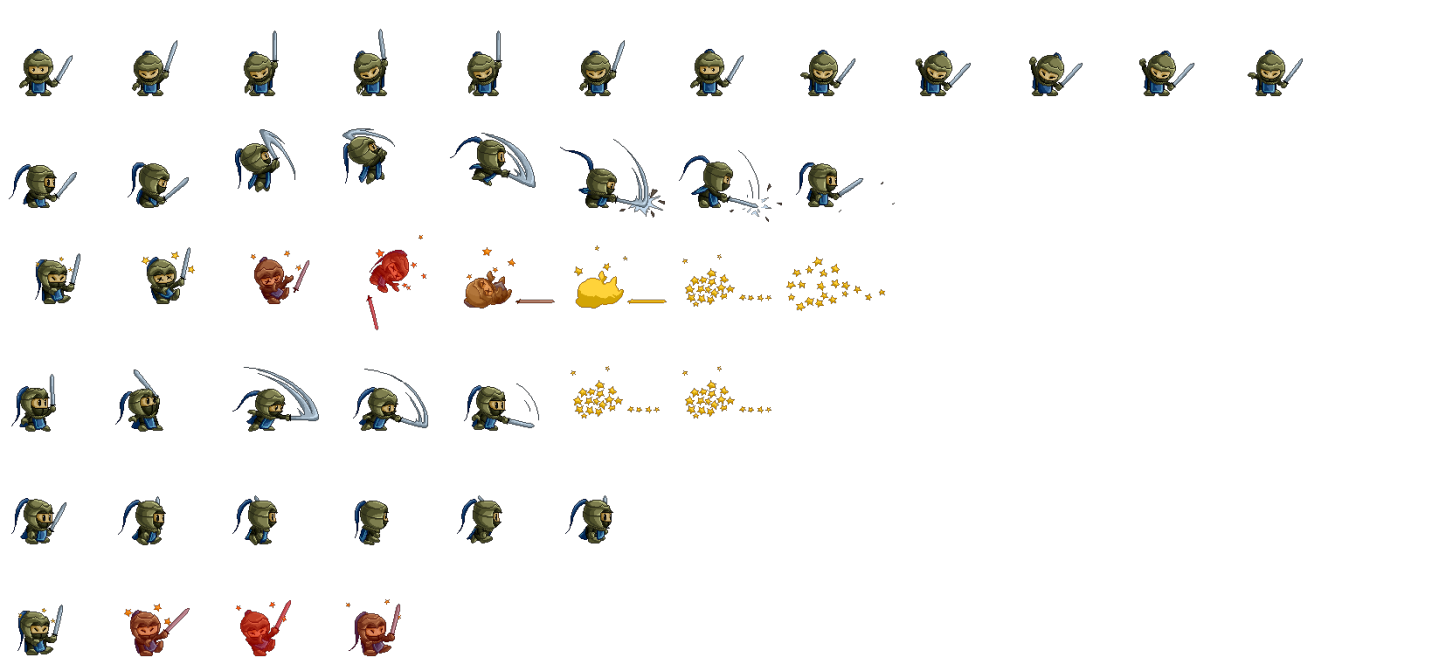
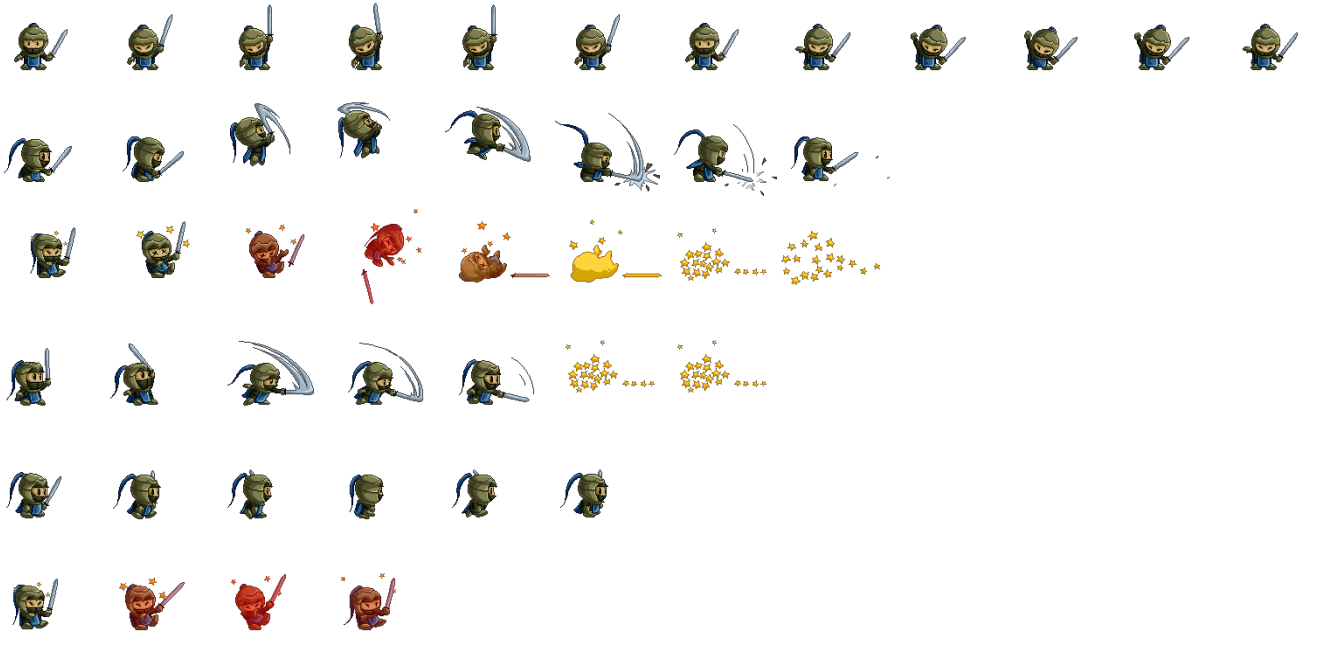
working on animations

diff --git a/include/macros.h b/include/macros.h
@@ -103,7 +103,8 @@ const int MENU_BUTTONS_OFFSET = 110, MENU_BUTTONS_GAP = 20;
 // Animations ----------------------------------
 enum CharacterAnimation
 {
-	_idle, _specialAttack, _death, _attack, _walk , _hurt , SPRITE_ROWS 
+	//_walk,_idle, _specialAttack, _death, _attack, _walk2, _hurt , SPRITE_ROWS
+	_walk,_hurt,_idle,_death, _attack, _specialAttack , SPRITE_ROWS
 };
 
 struct AnimationParams {
@@ -111,14 +112,13 @@ struct AnimationParams {
 	float _switchTime;
 };
 
-const AnimationParams characterParams = { sf::Vector2f(14,6), 0.3f };
+const AnimationParams characterParams = { sf::Vector2f(10,6), 0.3f };
 const AnimationParams projectileParams = { sf::Vector2f(8, 1), 0.3f };
 const AnimationParams effectParams = { sf::Vector2f(5, 1), 0.3f };
 
 // Stats ----------------------------------
 constexpr auto MAX_HEALTH = 100;
 constexpr auto DEFAULT_MVSPD = 100;
-
 enum Stats
 {
 	_hp, _attackSpeed, _dmg, _range, _defence, 
@@ -138,9 +138,9 @@ enum ObjectEnums
 {
 	_cleric, _knight, _archer, _dummy, _select, _healBall , NUM_OF_OBJECTS
 };
-const std::string textures[NUM_OF_OBJECTS] = { "cleric1.png" , "knight1.png", "witch.png" ,"imp.png", "select.png", "fireProj.png" };
+const std::string textures[NUM_OF_OBJECTS] = { "cleric1.png" , "knightSS.png", "witch.png" ,"walk.png", "select.png", "fireProj.png" };
 
-const std::vector<std::vector<int>> CharacterRowLengths = { {14,7,10,7,6,4} ,{12,8,8,5,6,4},
+const std::vector<std::vector<int>> CharacterRowLengths = { {14,7,10,7,6,4} ,{6,4,7,8,5,8},
 															{14,7,10,7,6,4} , {0,6,4,0,6,3 } };
 
 const std::vector<std::vector<int>> EffectsSSLengths = { {5} };
@@ -178,7 +178,7 @@ const float skillCooldowns[NUM_OF_CHARS][NUM_OF_SKILLS] = { {1.75f, 20.f, 30.f ,
 const float skillFactors[NUM_OF_CHARS][NUM_OF_SKILLS] = {	{1.f, 1.2f, 1.75f , 1.f} ,
 															{1.f ,1.5f, 1.3f, 1.f } ,
 															{1.f, 1.5f , 1.5f , 1.f} ,
-															{1.f}
+															{5.f}
 };
 
 const std::string skillTextures[NUM_OF_PLAYERS][NUM_OF_SKILLS] ={	{"clericBasic.png", "heal.png",	"clericShield.png" , ""} ,
